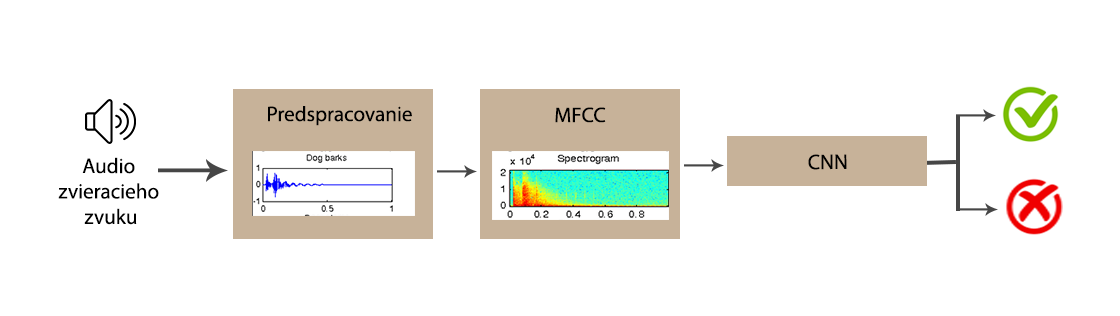
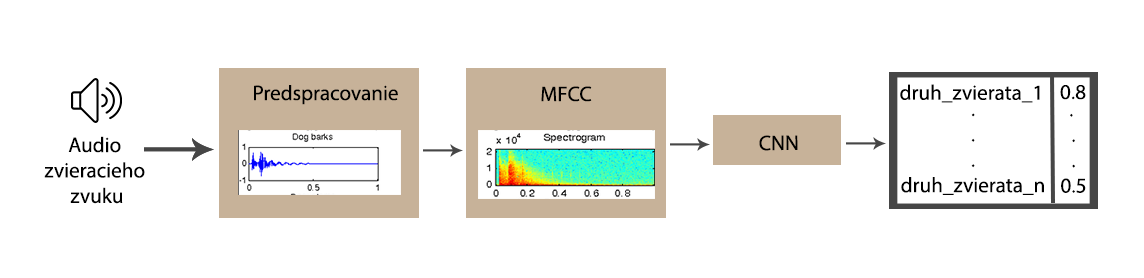
Added high-level solution

Changed region(s): [[0.0625, 0.2302, 0.9688, 0.8058], [0.0312, 0.5755, 0.1562, 0.7482], [0.0625, 0.2878, 0.125, 0.4604]]

diff --git a/README.md b/README.md
@@ -10,17 +10,33 @@ Detekcia zvierat na základe počutia je začiatočným krokom pri učení detí
 
 Identifikácia druhu zvierat je prirodzený spôsob kontroly životného prostredia a posudzovania biodiverzity. Preto je dôležitosť klasifikovanie druhu zvieraťa po vypočutí zvukovej vzorky veľmi dôležitá.
 
+## Hypotéza
+
+S akou pravdepodobnosťou sa zvierací zvuk identifikuje k triedam hľadaných zvierat?
+
 ## Podobné práce
 
 Skúmanie zvuku má v dnešnom svete vzostupný charakter. V podobných prácach sme narazili na generalizáciu tohto problému bez ohľadu na domény. Zvukový súbor (napríklad vo formáte .wav) pomocou predspracovaní a extrahovania vstúpi do výpočtu ako spektogram alebo MFCC spektogram. 
-> Hlavný rozdiel spočíva v tom, že spektrogram používa lineárnu frekvenčnú stupnicu (takže každý kmit je od seba vzdialený rovnakým počtom Hertzov), zatiaľ čo MFCC spektogram používa logaritmickú frekvenčnú stupnicu, ktorá je podobnejšia ľudskému zvukovému systému. 
+> Hlavný rozdiel spočíva v tom, že spektrogram používa lineárnu frekvenčnú stupnicu (takže každý kmit je od seba vzdialený rovnakým počtom Hertzov), zatiaľ čo MFCC spektogram používa logaritmickú frekvenčnú stupnicu, ktorá je podobnejšia ľudskému zvukovému vnímaniu. 
 
 Prístup klasifikácie z predspracovaných dát sa delil na 2 množiny. 
  1. Skrytý Markov Model (ďalej HMM) - po predspracovaných dátach je potrebná ešte vektorová kvantizácia. Tento model je známy svojou použiteľnosťou na poli rozpoznávania časových vzorov, teda je použiteľný aj na náš problém. Základný vzor je Markov model, od ktorého je HMM odvodené práve kvôli skrytiu stavu. Avšak výstup viditeľný je. [3][4]
  2. Konvolučné neurónové siete (ďalej CNN) - siahajú až do 80. rokov, ale len nedávno boli prijaté ako metóda výberu pre rôzne úlohy klasifikácie objektov. V prácach sa líšil počet použitých vrstiev konvolučných sietí. Boli použité 2 [2] - 3 [1] vrstvy s maximálnym združovaním a dropdown-om. Aktivácia pri vrstvách bola vykonávaná pomocou funkcie ReLU.
 
 ## Návrh riešenia na vysokej úrovni
+
+Vstup do klasifikácie zvieracích zvukov je surový súbor obsahujúci krátke audio jedného zvieracieho zvuku (napr. štekajúci pes). 
+
+_Predspracovanie_ - Zvukové vlny sa digitalizujú ich vzorkovaním v diskrétnych intervaloch známych ako vzorkovacia frekvencia. Každá vzorka je amplitúda vlny v konkrétnom časovom intervale, kde bitová hĺbka určuje, ako podrobne bude vzorka známa aj ako dynamický rozsah signálu. Následne takto vytvorenú dátovú množinu znormalizujeme.
+
+_MFCC_ - Ďalším krokom algoritmu je z normalizovaných dát vyextrahovať vlastnosti, ktoré budeme pri trénovaní dát používať. Rozhodli sme sa použiť MFCC spektogram kvôli spomínanej podobnosti s ľudským vnimaním zvuku.
+
+_CNN_ - Na začiatku sa budeme držať prístupu z podobných prác [2] a [1], ktorý sme predstavili vyššie.Následne budeme iterovať až kým nedosiahneme, čo najlepšie výsledky. 
+
+Tabuľka zobrazujúca výstup na obrázku znázorňuje s akou pravdepodobnosťou zvuk zvieraťa na vstupe patrí do druhu zvieraťa/triedy zvieraťa.
+
 ![Algoritmus navrhu riesenia projektu](./images/algo.png)
+
 ## Citácie
 
 [1] J. Salamon and J. P. Bello, "Deep Convolutional Neural Networks and Data Augmentation for Environmental Sound Classification," in IEEE Signal Processing Letters, vol. 24, no. 3, pp. 279-283, March 2017.
